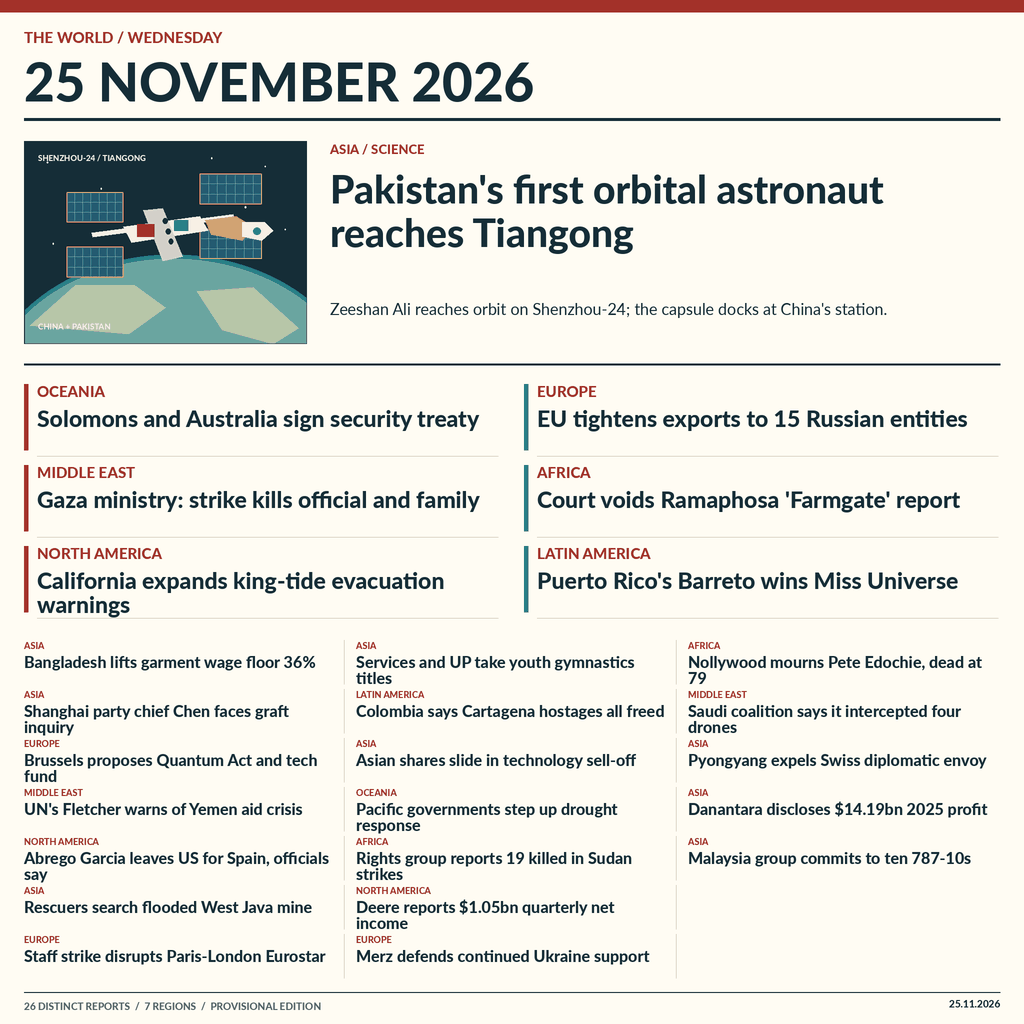
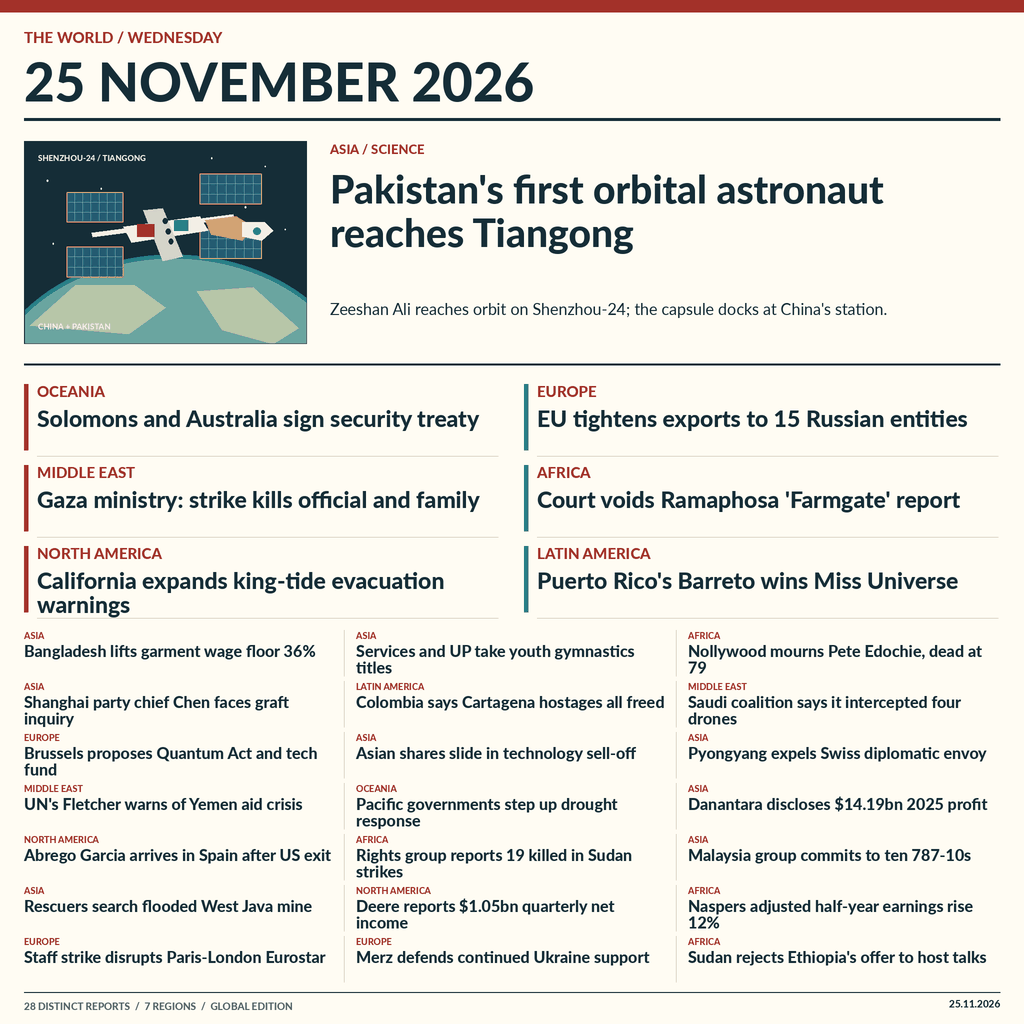
Balance Global Edition digest and resolve final visual/date fixes

Changed region(s): [[0.0, 0.625, 0.9688, 0.9375], [0.6562, 0.875, 0.9688, 0.9375], [0.2188, 0.9688, 0.3125, 1.0]]

diff --git a/render.py b/render.py
@@ -139,7 +139,7 @@ def illustration_shapes(c, box, motif, accent=TEAL):
         ell(-.15,.58,1.2,2.1,"#6aa5a0")
         poly([(.02,.91),(.18,.71),(.39,.71),(.5,.82),(.37,.95)],"#b7c6a8")
         poly([(.61,.74),(.81,.72),(.97,.92),(.88,1),(.7,.93)],"#b7c6a8")
-        for a,b in [(.08,.1),(.27,.23),(.85,.12),(.92,.43),(.66,.08),(.1,.5),(.78,.32)]:
+        for a,b in [(.08,.19),(.27,.23),(.85,.12),(.92,.43),(.66,.08),(.1,.5),(.78,.32)]:
             ell(a,b,a+.004,b+.009,PAPER)
         # Four slatted photovoltaic wings, independently positioned modules.
         for a,b,d,e in [(.15,.25,.35,.4),(.15,.52,.35,.67),(.62,.16,.84,.31),(.62,.43,.84,.58)]:
@@ -272,9 +272,9 @@ def card(c, s, x,y,w,h, size=19, illustrated=False):
     c.line([(x,y+h),(x+w,y+h)],RULE,1)
 
 
-def footer(c, count, regions):
+def footer(c, count, regions, edition="PROVISIONAL EDITION"):
     c.line([(24,992),(1000,992)],INK,1)
-    c.text((24,1000),f"{count} DISTINCT REPORTS  /  {regions} REGIONS  /  PROVISIONAL EDITION",10,MUTED,"bold")
+    c.text((24,1000),f"{count} DISTINCT REPORTS  /  {regions} REGIONS  /  {edition}",10,MUTED,"bold")
     c.text((1000,1000),"25.11.2026",10,INK,"bold",anchor="rt")
 
 
@@ -355,7 +355,7 @@ def branch_b(stories, scale):
 
 def branch_c(stories, scale):
     c=Canvas(scale,WHITE)
-    selected=select_stories(stories,26)
+    selected=select_stories(stories,28)
     c.rect((0,0,1024,12),RED)
     label(c,24,28,"THE WORLD / WEDNESDAY",15)
     c.text((24,49),"25 NOVEMBER 2026",53,INK,"bold")
@@ -384,13 +384,14 @@ def branch_c(stories, scale):
     prominent_ids={story["id"] for story in prominent}
     rest=[story for story in selected[1:] if story["id"] not in prominent_ids]
     rows=math.ceil(len(rest)/3)
+    if len(rest)!=21 or rows!=7:raise ValueError("C requires three balanced seven-item digest columns")
     for i,story in enumerate(rest):
         x=24+(i//rows)*332
-        y=640+(i%rows)*49
+        y=630+(i%rows)*51
         label(c,x,y,story["region"],9)
-        c.block((x,y+12),story["headline"],310,16,"bold",leading=1.0,max_lines=2)
-        if i//rows<2:c.line([(x+320,y),(x+320,y+44)],RULE,.7)
-    footer(c,len(selected),len(set(s["region"] for s in selected)))
+        c.block((x,y+11),story["headline"],310,16,"bold",leading=1.02,max_lines=2)
+        if i//rows<2:c.line([(x+320,y),(x+320,y+46)],RULE,.7)
+    footer(c,len(selected),len(set(s["region"] for s in selected)),edition="GLOBAL EDITION")
     return c,selected
 
 

diff --git a/README.md b/README.md
@@ -1,14 +1,18 @@
 # World news, 25 November 2026
 
+[![make.fun · news-image-20261125](https://make.fun/badge/news-image-20261125.svg)](https://make.fun/bounty/news-image-20261125?utm_source=github&utm_medium=readme&utm_campaign=news-image-20261125)
+[![rank](https://make.fun/badge/news-image-20261125/acfauji/news-image-20261125-global-edition/rank.svg)](https://make.fun/bounty/news-image-20261125/leaderboard?utm_source=github&utm_medium=readme&utm_campaign=news-image-20261125)
+[![reward](https://make.fun/badge/news-image-20261125/acfauji/news-image-20261125-global-edition/reward.svg)](https://make.fun/bounty/news-image-20261125?utm_source=github&utm_medium=readme&utm_campaign=news-image-20261125)
+
 An original illustrated news image, with three build-time editorial structures:
 
 - **A — Illustrated broadsheet:** 30 independently verified reports, one lead illustration and two supporting leads.
 - **B — Pictorial cover:** 23 reports around a dominant original editorial centerpiece.
-- **C — Clarity bulletin:** 26 reports, large date, a visual lead, six enlarged regional heads and a compact digest.
+- **C — Clarity bulletin:** 28 reports, large date, a visual lead, six enlarged regional heads and a compact digest.
 
-The committed `entry.png` is the provisional **C** edition: 26 reports across seven regions. Local swapped comparisons left A and C tied; C was selected provisionally for its clearer large regional headlines at a true 300 pixels. This is not a server grade or a claim of competitive rank.
+The committed `entry.png` is the **C — Global Edition**: 28 reports across seven regions, with a balanced three-column, seven-row digest. Local swapped comparisons left A and C tied; C was selected provisionally for its clearer large regional headlines at a true 300 pixels. This is not a server grade or a claim of competitive rank.
 
-The report manifest distinguishes events from attributed claims. It records the qualifying date and source evidence. A provisional edition is not a complete record of the full global day.
+The report manifest distinguishes events from attributed claims. It records the qualifying date and source evidence. This early-day edition is not a complete record of the full global day.
 
 ## Offline execution
 
